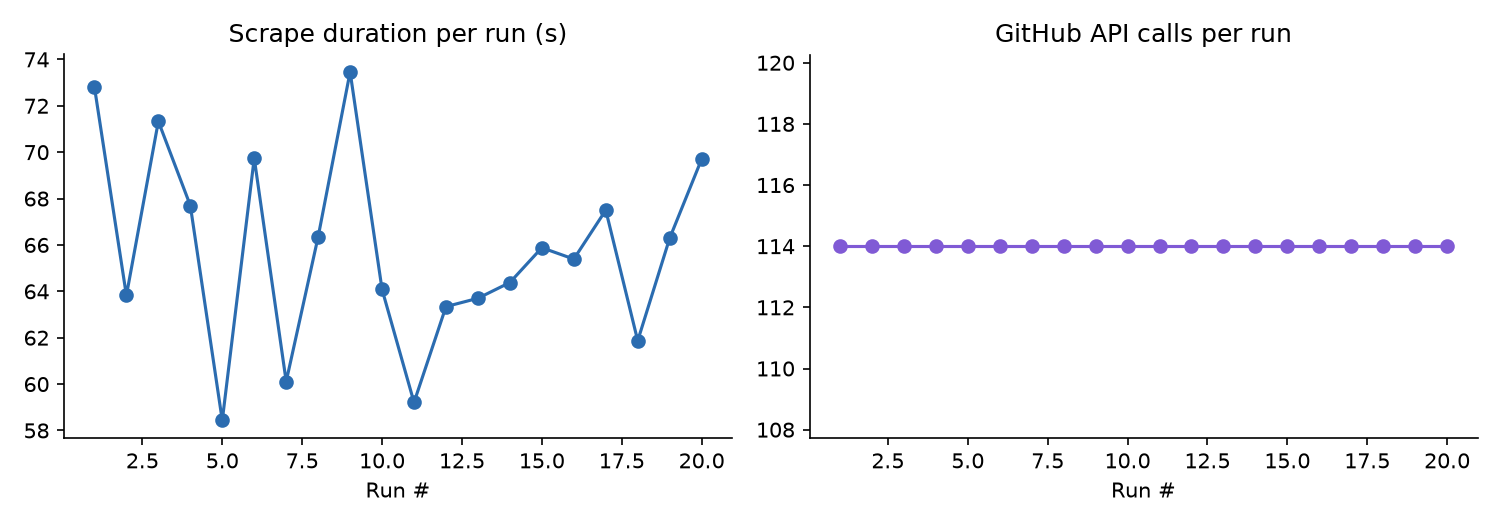
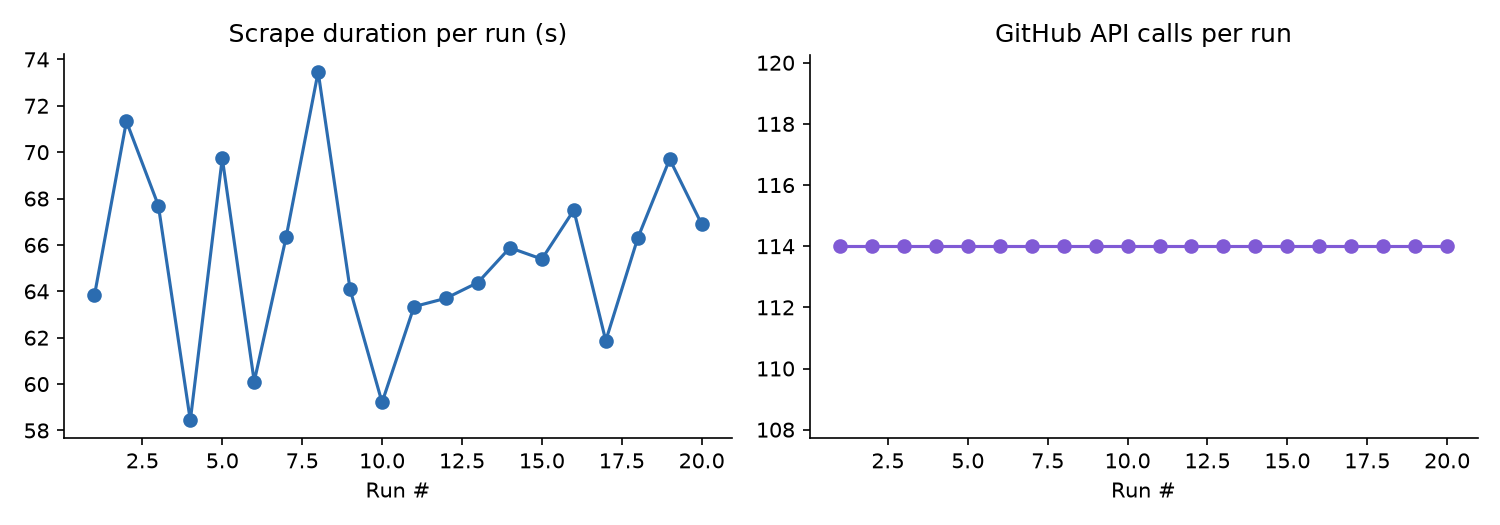
Weekly issue tracker refresh

Changed region(s): [[0.0613, 0.1219, 0.4907, 0.8229], [0.0613, 0.1524, 0.092, 0.1829]]

diff --git a/README.md b/README.md
@@ -81,7 +81,7 @@ See [CONTRIBUTING.md](CONTRIBUTING.md) for the full contributor workflow — inc
 
 <!-- TRACKER:START -->
 
-_Last updated: 2026-08-25 11:20 UTC_
+_Last updated: 2026-08-25 11:49 UTC_
 
 _Tracking **18** upstream repos, **384** relevant open issues._
 
@@ -296,7 +296,7 @@ _Tracking **18** upstream repos, **384** relevant open issues._
 
 <!-- METRICS:START -->
 
-_Last run: 2026-08-25 11:19 UTC, took **69.7s**, **114** GitHub API calls, **4658/5000** rate limit remaining._
+_Last run: 2026-08-25 11:48 UTC, took **66.9s**, **114** GitHub API calls, **4886/5000** rate limit remaining._
 
 ![Scrape metrics trend](assets/metrics_trend.png)
 
